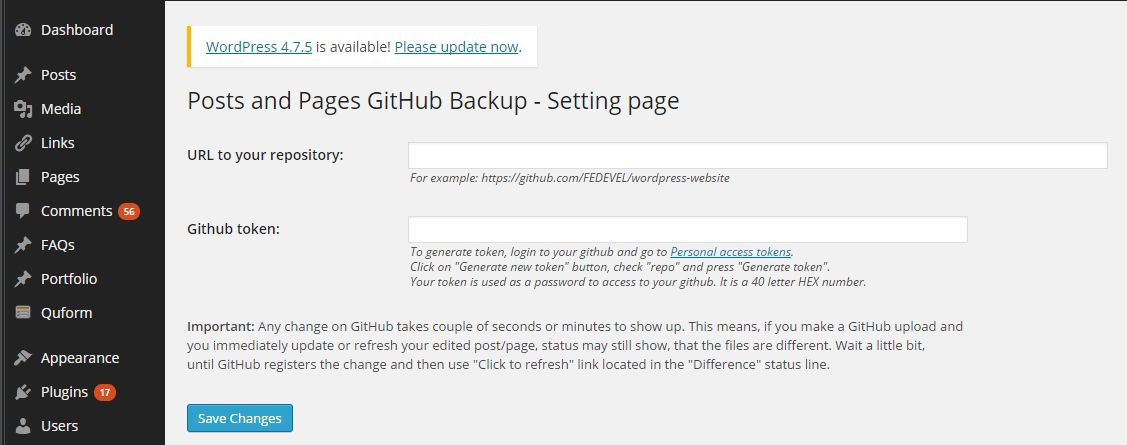
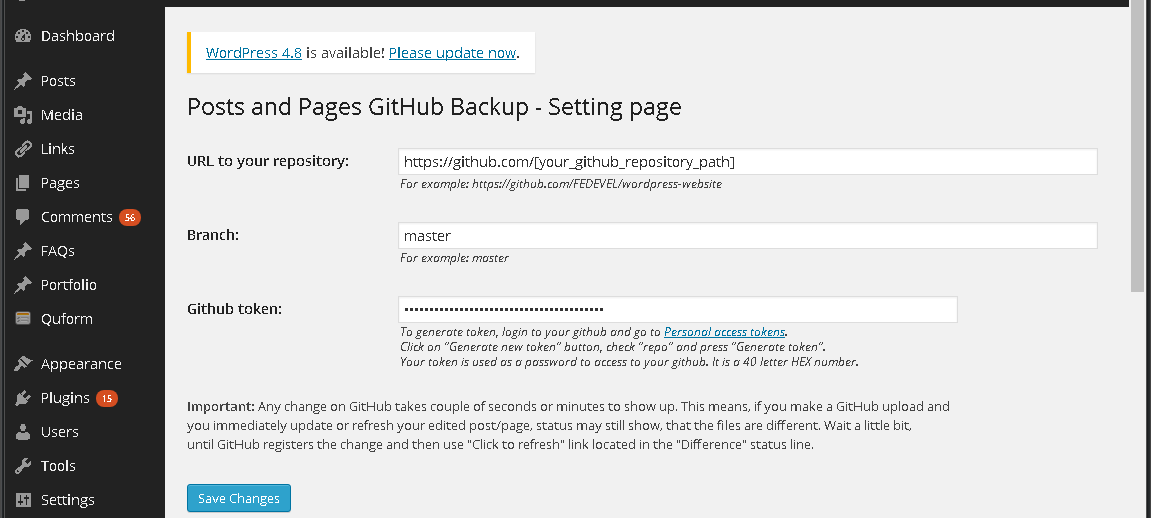
Token type field changed to password. Readme updated. Screenshots updated.

diff --git a/include/main.php b/include/main.php
@@ -69,7 +69,7 @@
                         <td>
                             <div>
                                 <label class="screen-reader-text" for="github_token">GitHub token:</label>
-                                <input type="text" id="github_token" name="github_token" value="<?php echo $github_token; ?>" style='width:40em'>
+                                <input type="password" id="github_token" name="github_token" value="<?php echo $github_token; ?>" style='width:40em'>
                             </div>
                             <div style="font-size: 12px;font-style: italic;margin-left: 3px">
                                 To generate token, login to your github and go to <a href="https://github.com/settings/tokens" target="_blank">Personal access tokens</a>.<br>
